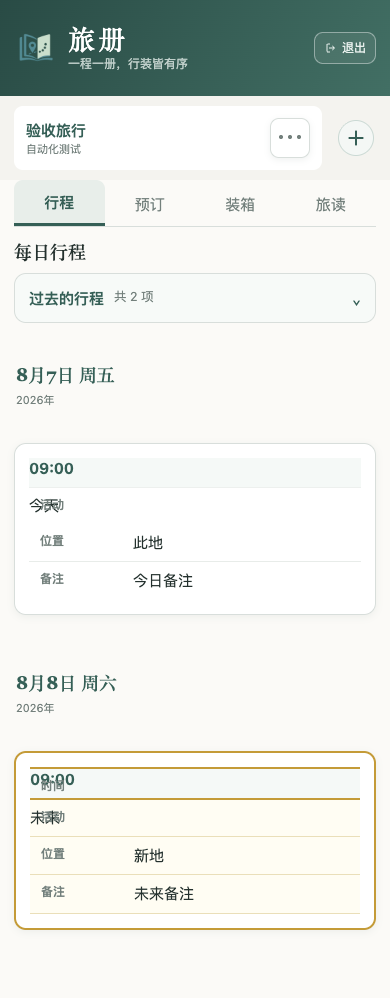
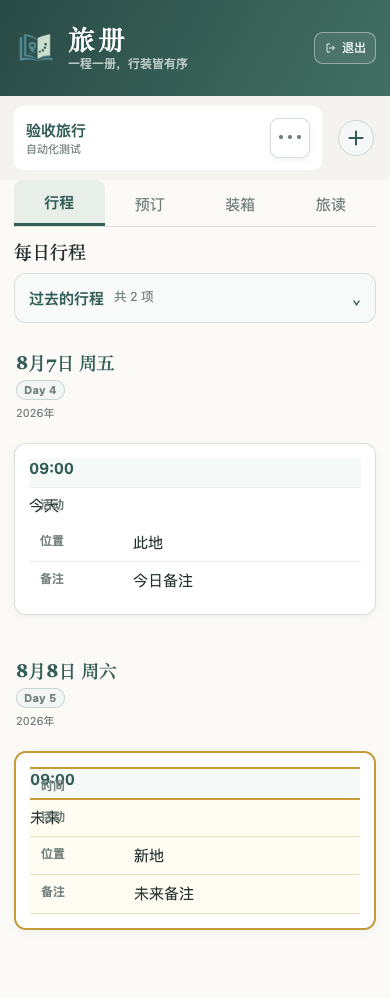
Add itinerary day badges

Changed region(s): [[0.0308, 0.3417, 0.3077, 0.4349], [0.0308, 0.6523, 0.1846, 0.7455], [0.2154, 0.6523, 0.3077, 0.7144]]

diff --git a/app.js b/app.js
@@ -83,7 +83,7 @@ function groupItineraryRows(rows){let dated=rows.map((row,index)=>({row,index,da
 function itineraryDayIsExpanded(date,now=new Date()){return !/^(\d{4})-(\d{2})-(\d{2})$/.test(date)||date>=shanghaiParts(now).date}
 window.lvceItineraryDayIsExpanded=itineraryDayIsExpanded;
 function itineraryDateLabel(date){let m=/^(\d{4})-(\d{2})-(\d{2})$/.exec(date);if(!m)return {title:date||'未填写日期',year:''};let day=new Date(Date.UTC(+m[1],+m[2]-1,+m[3])),weekday=['周日','周一','周二','周三','周四','周五','周六'][day.getUTCDay()];return {title:`${+m[2]}月${+m[3]}日 ${weekday}`,year:m[1]}}
-function itineraryGroupHeading(group,rows){let label=itineraryDateLabel(group.key),head=document.createElement('header');head.className='itinerary-day-heading';head.innerHTML=`<div><h3>${esc(label.title)}</h3>${label.year?`<small>${esc(label.year)}年</small>`:''}</div>`;if(editing){let input=document.createElement('textarea');input.className='itinerary-date-edit';input.rows=1;input.value=group.key==='未填写日期'?'':group.key;input.setAttribute('aria-label','日期');input.oninput=()=>autoGrow(input);input.onchange=()=>{group.items.forEach(item=>rows[item.index][0]=input.value);save();render()};head.append(input);requestAnimationFrame(()=>autoGrow(input))}return head}
+function itineraryGroupHeading(group,rows){let label=itineraryDateLabel(group.key),start='2026-08-04',day=/^2026-08-\d{2}$/.test(group.key)?Math.round((Date.parse(group.key+'T00:00:00Z')-Date.parse(start+'T00:00:00Z'))/86400000)+1:null,head=document.createElement('header');head.className='itinerary-day-heading';head.innerHTML=`<div><h3>${esc(label.title)}</h3>${day>0?`<span class="itinerary-day-badge">Day ${day}</span>`:''}${label.year?`<small>${esc(label.year)}年</small>`:''}</div>`;if(editing){let input=document.createElement('textarea');input.className='itinerary-date-edit';input.rows=1;input.value=group.key==='未填写日期'?'':group.key;input.setAttribute('aria-label','日期');input.oninput=()=>autoGrow(input);input.onchange=()=>{group.items.forEach(item=>rows[item.index][0]=input.value);save();render()};head.append(input);requestAnimationFrame(()=>autoGrow(input))}return head}
 function ticketRecordId(row,index){return row?.[12]||`ticket:${index}`}function bookingTargets(){let t=trip(),targets=[];t.tickets.forEach((row,index)=>targets.push({targetType:'ticket',targetId:ticketRecordId(row,index),title:row[0]||'未命名门票',row,index}));t.transport.forEach((row,index)=>targets.push({targetType:'transport',targetId:`transport:${index}`,title:[row[1],row[4]&&row[6]?`${row[4]}→${row[6]}`:''].filter(Boolean).join(' '),row,index}));return targets}function linkedBooking(row){let link=trip().itineraryLinks?.find(x=>x.date===row[0]&&x.activity===row[2]);return link&&bookingTargets().find(x=>x.targetType===link.targetType&&x.targetId===link.targetId)}function openBooking(target){state.tab='bookings';render();requestAnimationFrame(()=>{let id=target.targetType==='ticket'?`ticket-row-${target.index}`:`transport-row-${target.index}`,node=document.getElementById(id);node?.classList.add('linked-row-highlight');node?.focus();node?.scrollIntoView({behavior:'smooth',block:'center'})})}
 function itineraryPanel(rows){
   let specs=itinerarySpecs,sec=document.createElement('section'),nextIndex=nextItineraryIndex(rows),today=shanghaiParts().date,groups=groupItineraryRows(rows);

diff --git a/style.css b/style.css
@@ -428,3 +428,4 @@ body.public-view header>div.brand{grid-column:1}
 @media print{.itinerary-groups{display:block}.itinerary-day-group{margin-bottom:4mm;break-inside:auto}.itinerary-day-heading{margin-bottom:2mm}.itinerary-day-heading h3{font-size:11pt}.past-itinerary>.itinerary-groups{padding:0;border:0}}
 .itinerary-day-heading{height:auto;background:transparent;color:var(--green);padding:0 2px}.itinerary-day-heading h3{color:var(--green);letter-spacing:0}.itinerary-day-heading small{margin:0;opacity:1}.itinerary-table tr.next-itinerary::before{content:none}.itinerary-table tr.next-itinerary td[data-label="时间"]::before{content:attr(data-label);display:block;margin:0;padding:0;border-radius:0;background:transparent;color:var(--muted);font-size:12px;font-weight:700}.itinerary-table tr.next-itinerary td[data-label="时间"] .cell-view::before{content:'下一程';display:inline-block;margin:0 6px 4px 0;padding:1px 6px;border-radius:10px;background:#c49b38;color:#fff;font-size:10px;font-weight:700}
 @media(max-width:680px){.itinerary-table tr.next-itinerary td[data-label="时间"] .cell-view::before{display:none}}
+.itinerary-day-badge{display:inline-flex;align-items:center;padding:2px 7px;border:1px solid #c8d7d1;border-radius:999px;background:#f2f7f5;color:var(--muted);font-size:11px;font-weight:700;line-height:1.3;letter-spacing:.02em}

diff --git a/test/browser.test.js b/test/browser.test.js
@@ -1554,6 +1554,7 @@ test('past itinerary is one external collapsed section while today and future re
     assert.equal(await page.locator('.itinerary-day-summary,.itinerary-day-collapsed,.itinerary-day-toggle').count(),0,'daily collapse placeholders must not exist in tables');
     assert.equal(await page.locator('.itinerary-current .itinerary-day-group').count(),2,'today and future remain continuously visible as date groups');
     assert.deepEqual(await page.locator('.itinerary-current .itinerary-day-heading h3').allTextContents(),['8月7日 周五','8月8日 周六']);
+    assert.deepEqual(await page.locator('.itinerary-current .itinerary-day-badge').allTextContents(),['Day 4','Day 5'],'day badges count from August 4 as Day 1');
     assert.equal(await page.locator('.itinerary-block td[data-label="日期"],.itinerary-block th:text-is("日期")').count(),0,'data tables have no date column');
     assert.equal(await page.locator('.itinerary-day-heading button,.itinerary-day-group details').count(),0,'date headings are static and never daily collapsibles');
     await page.setViewportSize({width:1440,height:1000});
